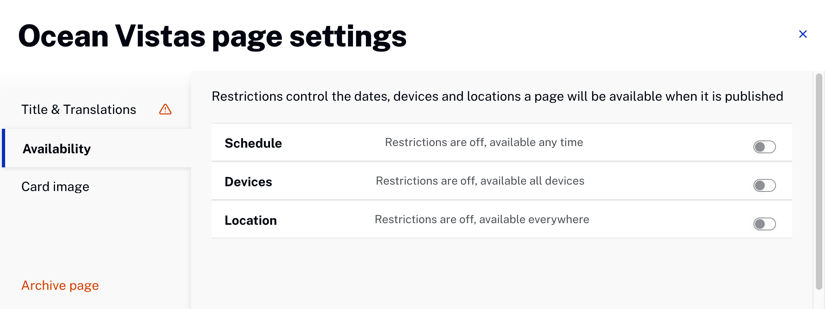
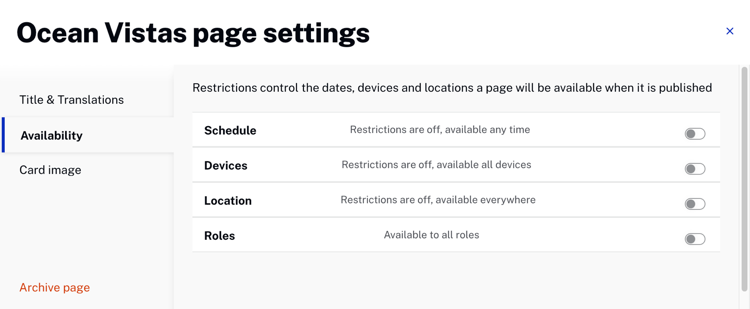
Added Roles to page availability doc

diff --git a/_site/layout/configuring-page-availability.html b/_site/layout/configuring-page-availability.html
@@ -3205,23 +3205,24 @@ function doGTranslate(lang_pair) {if(lang_pair.value)lang_pair=lang_pair.value;i
       <li><a href="#Configuring_calendar_restrictions">The dates a page is available</a></li>
       <li><a href="#Configuring_device_restrictions">The device(s) a page is available on which to be viewed</a></li>
       <li><a href="#Configuring_location_restrictions">The locations where a page can be viewed</a></li>
+      <li><a href="#Configuring_role_restrictions">The viewer roles allowed to view pages</a></li>
     </ul>
     <p>To configure the <strong>Availability</strong> settings for a page, follow these steps:</p>
-    <aside class="bcls-aside bcls-aside--tip">NOTE: Your changes will be automatically saved, there is no save or confirm button to click.</aside>
+    <aside class="bcls-aside bcls-aside--tip">NOTE: Your changes are automatically saved, there is no save or confirm button to click.</aside>
     <ol class="bcls-tasklist-restart">
       <li>Open the <strong>Layout</strong> module.</li>
-      <li>Click on the page name to edit. The page details will be displayed.</li>
+      <li>Click on the page name to edit. The page details are be displayed.</li>
       <li>To the right of <strong>Availability</strong>, click <img src="/assets/images/common/edit-pencil-on-page-blue.png" alt="edit icon">.
         <figure class="bcls-figure">
           <img class="bcls-image--no-border" alt="Edit availability" src="/assets/images/s-layout-img/availability-options.png" />
         </figure>
       </li>
-      <li>The <strong>Page Settings</strong> dialog will open, where you can set availability for the page.
+      <li>The <strong>Page Settings</strong> dialog opens, where you can set availability for the page.
         <figure class="bcls-figure">
           <img class="bcls-image" src="/assets/images/s-layout-img/page-settings-availability.png" alt="Page settings">
         </figure>
       </li>
-      <li>After you configure Availability settings, they will be displayed in the left margin.
+      <li>After you configure Availability settings, they are displayed in the left margin.
         <figure class="bcls-figure">
           <img class="bcls-image--no-border" alt="Availability configured" src="/assets/images/s-layout-img/availability-configured.png" />
         </figure>
@@ -3232,10 +3233,10 @@ function doGTranslate(lang_pair) {if(lang_pair.value)lang_pair=lang_pair.value;i
 
   <section class="bcls-section">
     <h2 id="Configuring_calendar_restrictions">Configuring calendar restrictions</h2>
-    <p>By default, when a page is created, it will always be available for viewing. Pages can be configured with calendar restrictions that define the start date and time that a page will be available for viewing. Optionally, you can also configure an end date and time. To configure a schedule for a page, follow these steps: </p>
+    <p>By default, when a page is created, it is always be available for viewing. Pages can be configured with calendar restrictions that define the start date and time that a page is available for viewing. Optionally, you can also configure an end date and time. To configure a schedule for a page, follow these steps: </p>
     <ol class="bcls-tasklist-restart">
       <li>Return to the <strong>Page Settings</strong> dialog and the <strong>Availability</strong> section.</li>
-      <li>For <strong>Calendar restrictions</strong>, turn on the toggle. Calendar restriction settings will display.
+      <li>For <strong>Calendar restrictions</strong>, turn on the toggle. Calendar restriction settings display.
         <figure class="bcls-figure">
           <img class="bcls-image--no-border" alt="Calendar restrictions" src="/assets/images/s-layout-img/availability-schedule-dialog.png" />
         </figure>
@@ -3255,7 +3256,7 @@ function doGTranslate(lang_pair) {if(lang_pair.value)lang_pair=lang_pair.value;i
           <img class="bcls-image--no-border" alt="End date" src="/assets/images/s-layout-img/availability-end-date.png" />
         </figure>
       </li>
-      <li>After you schedule a published page to be available for a future date, the page status label will display <strong>Scheduled</strong>.
+      <li>After you schedule a published page to be available for a future date, the page status label displays <strong>Scheduled</strong>.
         <figure class="bcls-figure">
           <img class="bcls-image" src="/assets/images/s-layout-img/scheduled-page.png" alt="Scheduled status">
         </figure>
@@ -3265,10 +3266,10 @@ function doGTranslate(lang_pair) {if(lang_pair.value)lang_pair=lang_pair.value;i
 
   <section class="bcls-section">
     <h2 id="Configuring_device_restrictions">Configuring device restrictions</h2>
-    <p>By default, when a page is created, it will be available for viewing on all devices. Pages can be configured so they can only be viewed on specific devices. To configure the devices a page can be viewed on, follow these steps: </p>
+    <p>By default, when a page is created, it is available for viewing on all devices. Pages can be configured so they can only be viewed on specific devices. To configure the devices a page can be viewed on, follow these steps: </p>
     <ol class="bcls-tasklist-restart">
       <li>Return to the <strong>Page Settings</strong> dialog and the <strong>Availability</strong> section.</li>
-      <li>For <strong>Device restrictions</strong>, turn on the toggle. Device restriction settings will display.
+      <li>For <strong>Device restrictions</strong>, turn on the toggle. Device restriction settings display.
         <figure class="bcls-figure"><img class="bcls-image--no-border" alt="Device restrictions" src="/assets/images/s-layout-img/availability-devices-dialog.png" /></figure>
       </li>
       <li>Select/Unselect the devices that can view the page.</li>
@@ -3276,15 +3277,15 @@ function doGTranslate(lang_pair) {if(lang_pair.value)lang_pair=lang_pair.value;i
   </section>
   <section class="bcls-section">
     <h2 id="Configuring_location_restrictions">Configuring location restrictions</h2>
-    <p>By default, when a page is created, it will be available for viewing in all geographic locations. Pages can be configured so viewing is permitted or denied in specific locations. To configure the locations for a page, follow these steps: </p>
+    <p>By default, when a page is created, it is available for viewing in all geographic locations. Pages can be configured so viewing is permitted or denied in specific locations. To configure the locations for a page, follow these steps: </p>
     <ol class="bcls-tasklist-restart">
       <li>Return to the <strong>Page Settings</strong> dialog and the <strong>Availability</strong> section.</li>
-      <li>For <strong>Location restrictions</strong>, turn on the toggle. The location settings will display.
+      <li>For <strong>Location restrictions</strong>, turn on the toggle. The location settings display.
         <figure class="bcls-figure">
           <img class="bcls-image--no-border" alt="Location restrictions" src="/assets/images/s-layout-img/availability-location-dialog.png" />
         </figure>
       </li>
-      <li>In the <strong>Permitted Locations</strong> section, type the name of a country. As you begin typing, the list will filter.</li>
+      <li>In the <strong>Permitted Locations</strong> section, type the name of a country. As you begin typing, the list filters.</li>
       <li>
         <figure class="bcls-figure">
           <img class="bcls-image--no-border" alt="Permitted locations" src="/assets/images/s-layout-img/availability-locations-type.png" />
@@ -3299,6 +3300,29 @@ function doGTranslate(lang_pair) {if(lang_pair.value)lang_pair=lang_pair.value;i
     </ol>
     <p>To remove a country, click the <strong>X</strong> next to the country.</p>
   </section>
+
+  <section class="bcls-section">
+    <h2 id="Configuring_role_restrictions">Configuring role restrictions</h2>
+    <p>By default, when a page is created, it is be available for viewing by all viewer roles. Pages can be configured so viewing is permitted or denied based on viewer role. To configure the roles for a page, follow these steps:</p>
+    <ol class="bcls-tasklist">
+      <li>Return to the <strong>Page Settings</strong> dialog and the <strong>Availability</strong> section.</li>
+      <li>For <strong>Roles restrictions</strong>, turn on the toggle. The roles settings display.
+        <figure class="bcls-figure">
+          <img class="bcls-image" src="/assets/images/s-layout-img/availability-roles-dialog.png" alt="roles dialog">
+        </figure>
+      </li>
+      <li>Click <strong>Select roles</strong>.</li>
+      <li>Click <strong>Add roles</strong>, then select the desired roles from the dropdown.
+        <figure class="bcls-figure">
+          <img class="bcls-image" src="/assets/images/s-layout-img/roles-selection.png" alt="select roles">
+        </figure>
+      </li>
+    </ol>
+    <p>To remove a role, click the <strong>X</strong> next to the role.</p>
+    <p>For complete details on setting up roles, see the <a href="/registered-users/roles-as-rights-studio.html">Controlling Viewer Access with Roles in Studio</a> document.</p>
+
+  </section>
+
 </article>
 <!-- complete bootstrap layout -->
     </div>
